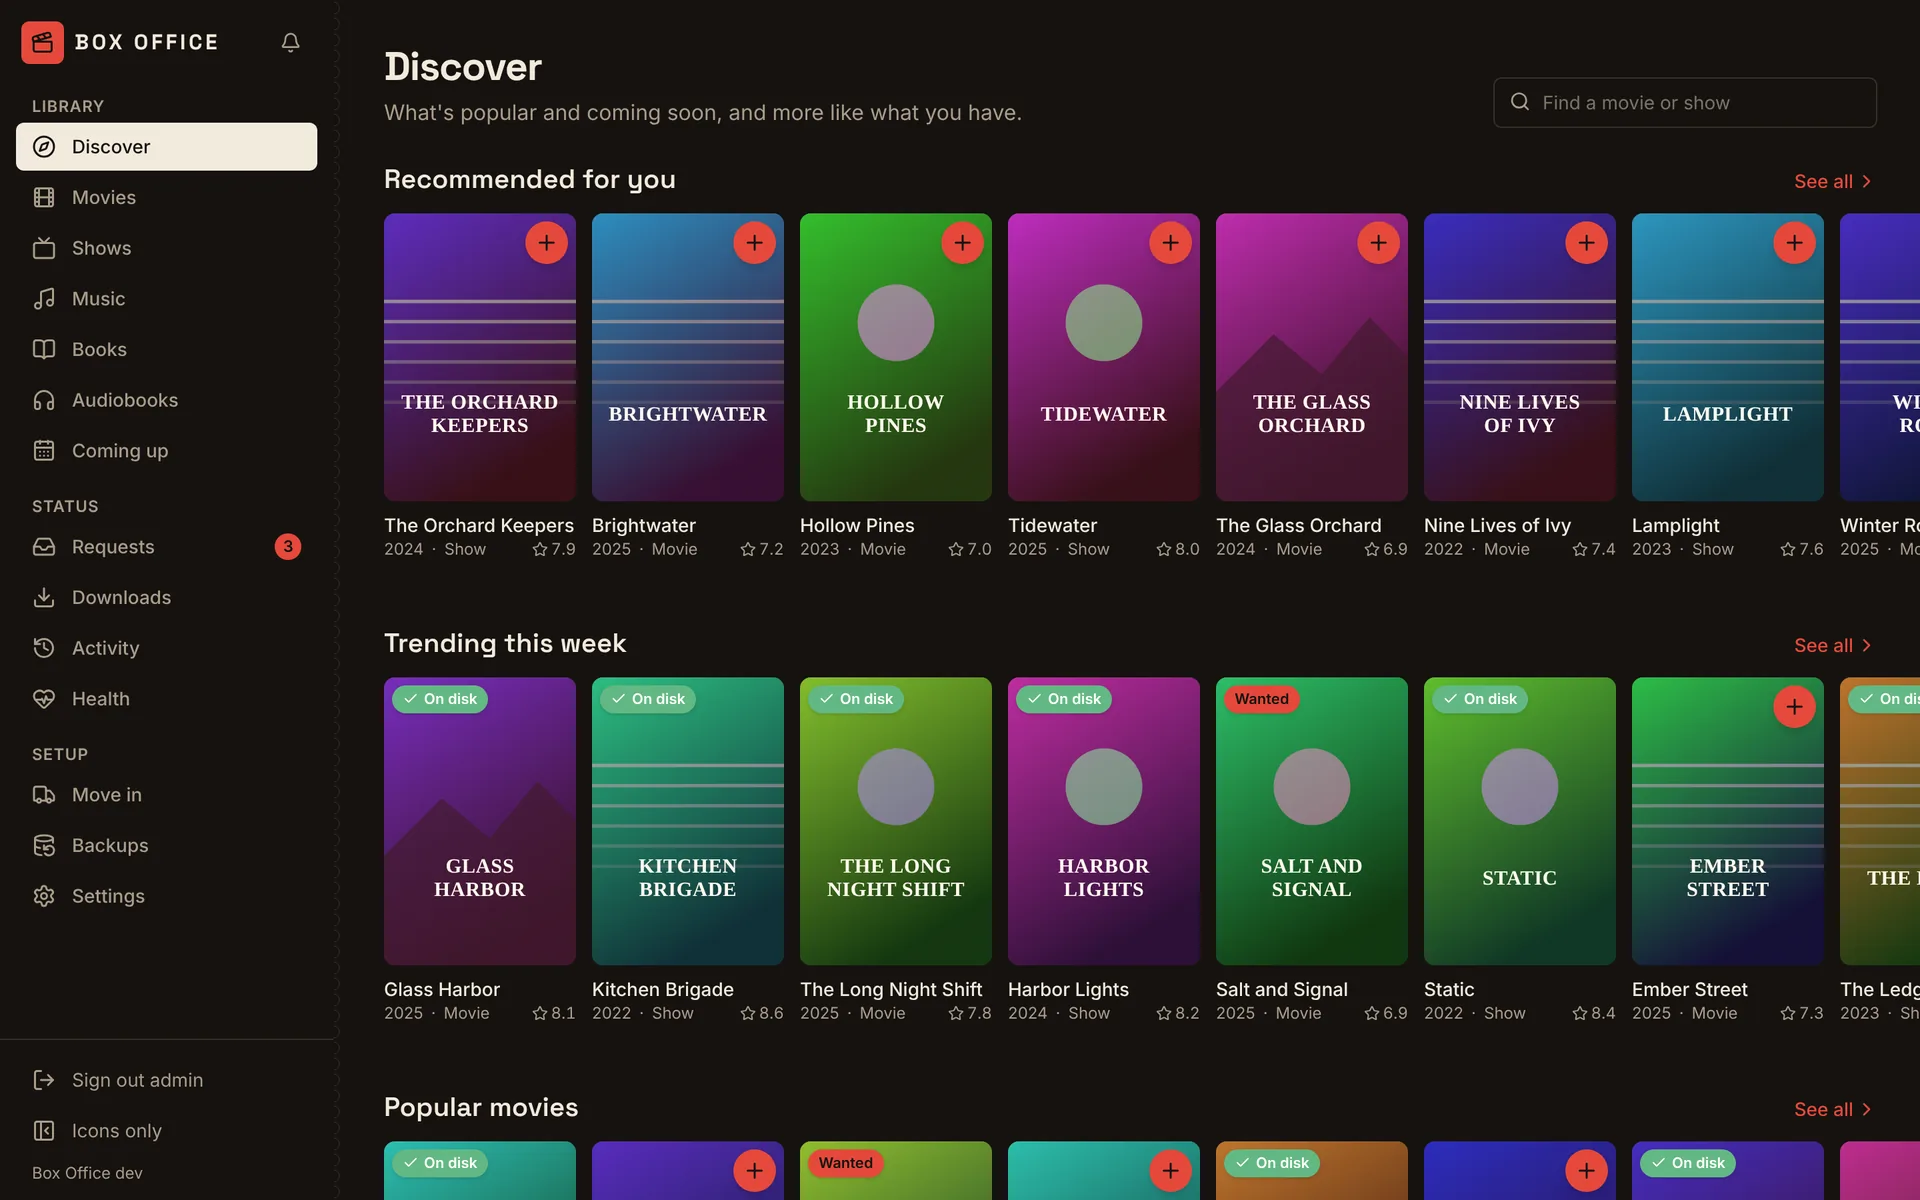
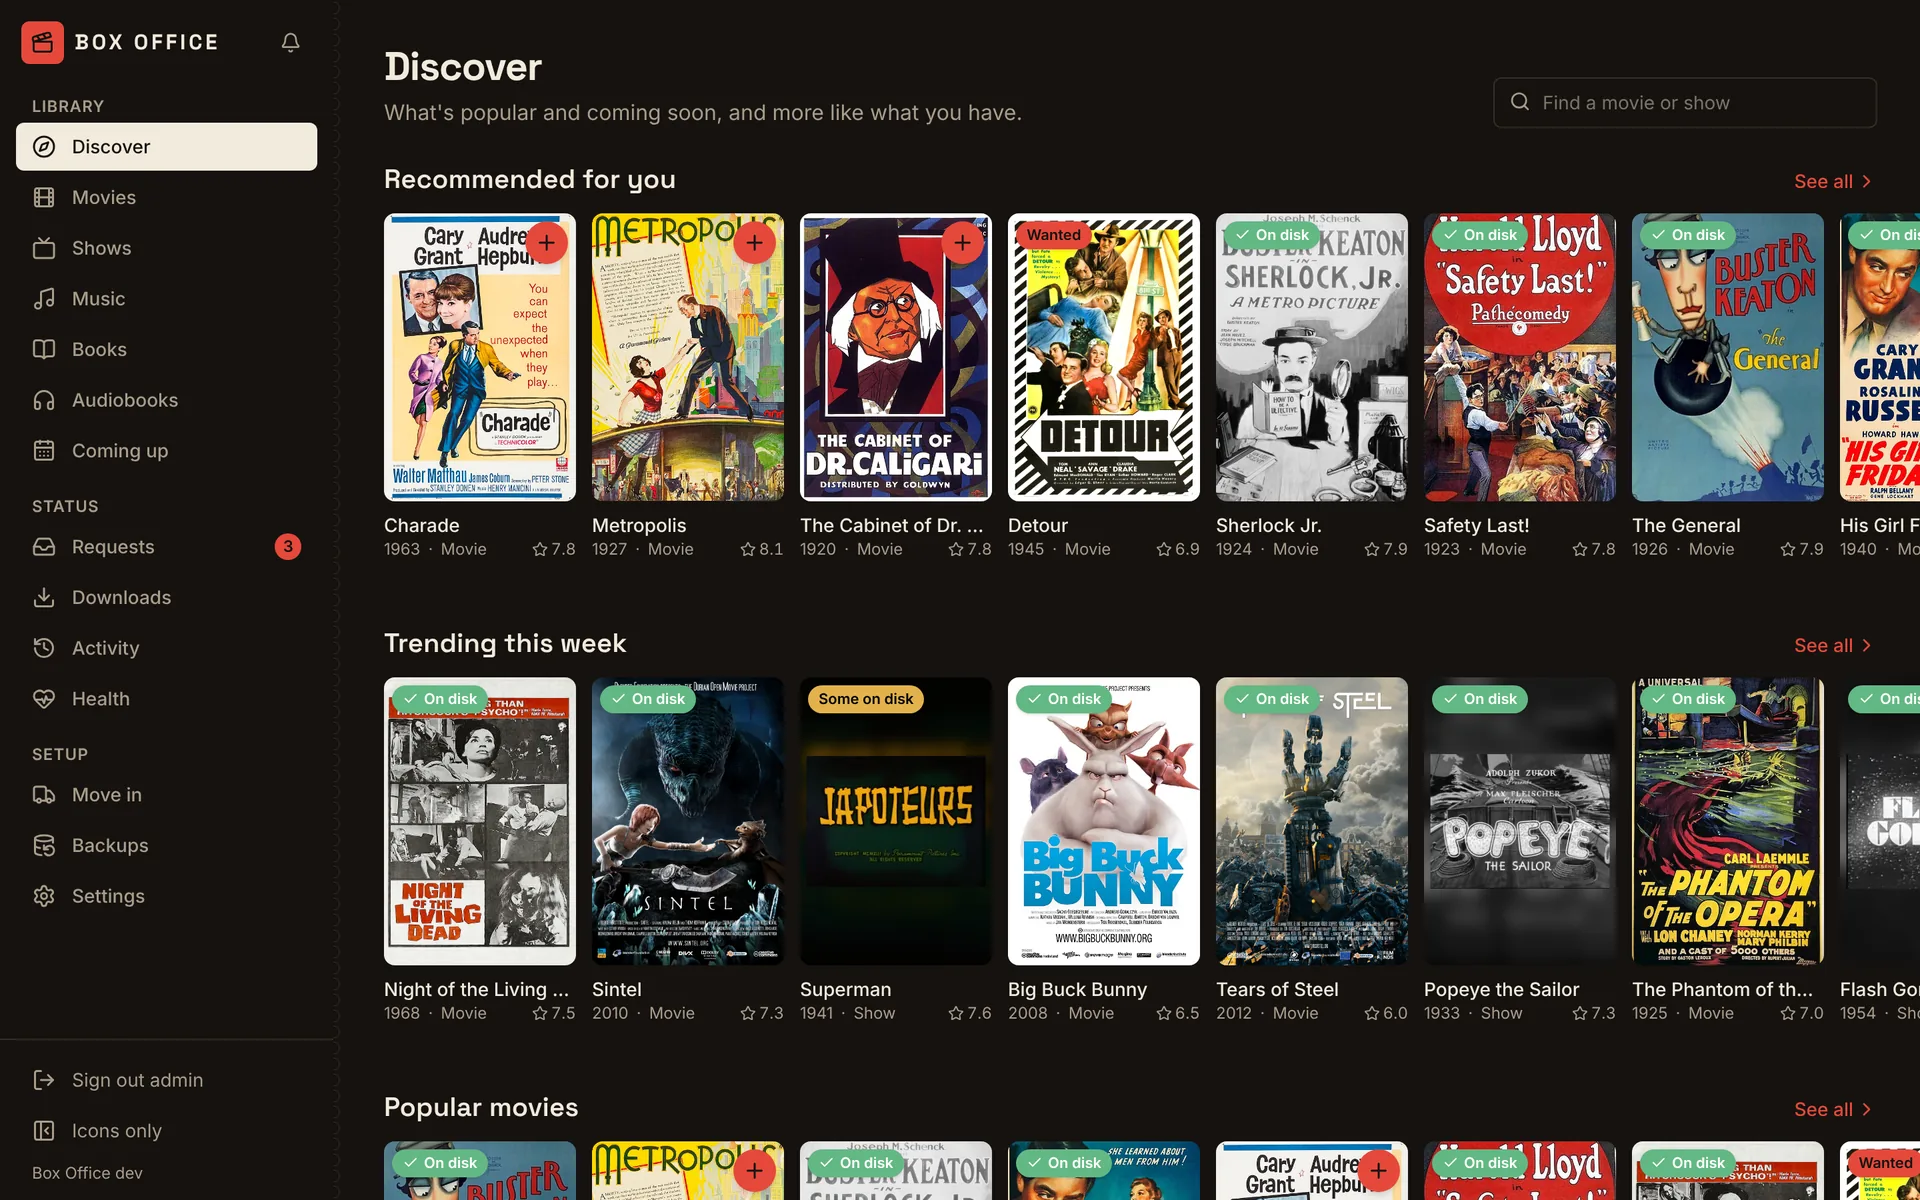
Show public-domain and Creative Commons titles in the README screenshots
Retake the screenshots with Blender's open movies, silent-era and other
public-domain films, the 1940s Superman cartoons, Scott Joplin's sheet music
and Sherlock Holmes first editions, with artwork from Wikimedia Commons
credited in docs/images/CREDITS.md.

Claude-Session: https://claude.ai/code/session_018hbbY14bhbvvR6ggz5Cdkn

diff --git a/docs/images/CREDITS.md b/docs/images/CREDITS.md
@@ -1,0 +1,34 @@
+# Screenshot credits
+
+The screenshots in the README show Box Office with a demo library of public-domain and Creative Commons titles. Everything else in them (people, file sizes, dates added, requests) is made up. The artwork comes from Wikimedia Commons:
+
+| Artwork | Author | License | Source |
+| --- | --- | --- | --- |
+| Big Buck Bunny (2008) poster | © Blender Foundation, www.bigbuckbunny.org | [CC BY 3.0](https://creativecommons.org/licenses/by/3.0/) | [Big buck bunny poster big.jpg](https://commons.wikimedia.org/wiki/File:Big_buck_bunny_poster_big.jpg) |
+| Sintel (2010) poster | © Blender Foundation, www.sintel.org | [CC BY 3.0](https://creativecommons.org/licenses/by/3.0/) | [Sintel poster.jpg](https://commons.wikimedia.org/wiki/File:Sintel_poster.jpg) |
+| Tears of Steel (2012) poster | © Blender Foundation, mango.blender.org | [CC BY 3.0](https://creativecommons.org/licenses/by/3.0/) | [Tos-poster.png](https://commons.wikimedia.org/wiki/File:Tos-poster.png) |
+| Night of the Living Dead (1968) poster | | Public domain | [Night Of The Living Dead (1968) - Poster.jpg](https://commons.wikimedia.org/wiki/File:Night_Of_The_Living_Dead_%281968%29_-_Poster.jpg) |
+| His Girl Friday (1940) poster | | Public domain | [His Girl Friday (1940 poster) crop.jpg](https://commons.wikimedia.org/wiki/File:His_Girl_Friday_%281940_poster%29_crop.jpg) |
+| Charade (1963) poster | | Public domain | [Charade (1963 poster).jpg](https://commons.wikimedia.org/wiki/File:Charade_%281963_poster%29.jpg) |
+| The General (1926) poster | | Public domain | [The General (1926) - Movie Poster 2.png](https://commons.wikimedia.org/wiki/File:The_General_%281926%29_-_Movie_Poster_2.png) |
+| Safety Last! (1923) poster | | Public domain | [Safety last poster.jpg](https://commons.wikimedia.org/wiki/File:Safety_last_poster.jpg) |
+| The Phantom of the Opera (1925) poster | | Public domain | [The Phantom of the Opera (1925 film).jpg](https://commons.wikimedia.org/wiki/File:The_Phantom_of_the_Opera_%281925_film%29.jpg) |
+| Sherlock Jr. (1924) poster | | Public domain | [Sherlock jr poster.jpg](https://commons.wikimedia.org/wiki/File:Sherlock_jr_poster.jpg) |
+| The Cabinet of Dr. Caligari (1920) poster | | Public domain | [The Cabinet of Doctor Caligari Movie poster.jpg](https://commons.wikimedia.org/wiki/File:The_Cabinet_of_Doctor_Caligari_Movie_poster.jpg) |
+| Detour (1945) poster | | Public domain | [Detour (poster).jpg](https://commons.wikimedia.org/wiki/File:Detour_%28poster%29.jpg) |
+| Metropolis (1927) US ad sheet | | Public domain | [Metropolis (1926 US ad sheet - Paramount).jpg](https://commons.wikimedia.org/wiki/File:Metropolis_%281926_US_ad_sheet_-_Paramount%29.jpg) |
+| Flash Gordon (1954) title card | | Public domain | [Fg1954tc.jpg](https://commons.wikimedia.org/wiki/File:Fg1954tc.jpg) |
+| Felix in the Swim (1922) title card | | Public domain | [Felix in the Swim Title Card.png](https://commons.wikimedia.org/wiki/File:Felix_in_the_Swim_Title_Card.png) |
+| Popeye the Sailor title card | | Public domain | [Popeye title card.png](https://commons.wikimedia.org/wiki/File:Popeye_title_card.png) |
+| Superman: Japoteurs (1942) title card | | Public domain | [Japoteurs1.JPG](https://commons.wikimedia.org/wiki/File:Japoteurs1.JPG) |
+| Maple Leaf Rag (1899) sheet music cover | | Public domain | [Maple Leaf Rag 1st ed.jpg](https://commons.wikimedia.org/wiki/File:Maple_Leaf_Rag_1st_ed.jpg) |
+| The Entertainer (1902) sheet music cover | | Public domain | [Entertainer 1.jpg](https://commons.wikimedia.org/wiki/File:Entertainer_1.jpg) |
+| Elite Syncopations (1902) sheet music cover | | Public domain | [Elite Syncopations 1.jpg](https://commons.wikimedia.org/wiki/File:Elite_Syncopations_1.jpg) |
+| Treemonisha (1911) score cover | | Public domain | [Treemonisha cover.jpg](https://commons.wikimedia.org/wiki/File:Treemonisha_cover.jpg) |
+| Pine Apple Rag (1908) sheet music cover | | Public domain | [PineAppleRagCover08.jpg](https://commons.wikimedia.org/wiki/File:PineAppleRagCover08.jpg) |
+| A Study in Scarlet in Beeton's Christmas Annual (1887) | | Public domain | ["A Study in Scarlet" in Beeton’s Christmas Annual (1887).jpg](https://commons.wikimedia.org/wiki/File:%22A_Study_in_Scarlet%22_in_Beeton%E2%80%99s_Christmas_Annual_%281887%29.jpg) |
+| The Sign of the Four (1892 edition) cover | | Public domain | [Arthur Conan Doyle - The Sign of Four, cover 1892.jpg](https://commons.wikimedia.org/wiki/File:Arthur_Conan_Doyle_-_The_Sign_of_Four%2C_cover_1892.jpg) |
+| The Adventures of Sherlock Holmes cover | | Public domain | [Adventures of sherlock holmes.jpg](https://commons.wikimedia.org/wiki/File:Adventures_of_sherlock_holmes.jpg) |
+| The Hound of the Baskervilles (1902) cover | | Public domain | [Cover (Hound of Baskervilles, 1902).jpg](https://commons.wikimedia.org/wiki/File:Cover_%28Hound_of_Baskervilles%2C_1902%29.jpg) |
+
+Public-domain status is as recorded on each file's Commons page, for the United States. Character names such as Superman, Popeye, Felix the Cat and Flash Gordon may still be trademarks of their owners; the cartoons and episodes shown are in the public domain.

diff --git a/CHANGELOG.md b/CHANGELOG.md
@@ -16,9 +16,8 @@ What changed in Box Office, newest first. The format follows [Keep a Changelog](
 ### Changed
 
 - **Settings is split into sections and can be searched.** The page now has five tabs, **General** (language, TMDB, password), **Library** (media types, root folders, new shows, problem files, recycle folders), **Downloads** (the downloader, news servers, download clients), **Searching** (indexers, quality profiles, automatic searches, data cap) and **Apps and devices** (Matinee, e-readers, Move in); on a phone they wrap as buttons so none hide. **Search settings** (or press `/`) shows every card with a match across all tabs, marks the words found, and names fields that only appear in a card's form, such as a news server's Port. It matches the page's language without minding case or accents, and English too, and also points to Alerts on Health and to Backups. Links to a setting, such as `/settings#news-servers` from Health, open the right tab and bring the card into view; Health's TMDB and root folder fixes now link straight to theirs. E-readers shows a **Turn on Ebooks** button while ebooks are off instead of being missing.
-
 - **The image is now Debian slim with FFmpeg,** in place of distroless, for Problem files' remuxing. It runs as the same user (65532), so volumes and the Helm chart's security settings stay as they are.
-- **New README screenshots.** They show the sidebar, Discover, Music, Books, the Requests page and the phone menu, with made-up titles and artwork.
+- **The README screenshots show real public-domain and Creative Commons titles,** such as Blender's open movies, silent-era classics, the 1940s Superman cartoons, Scott Joplin and Sherlock Holmes, with their artwork credited in [docs/images/CREDITS.md](docs/images/CREDITS.md).
 
 ### Fixed
 

diff --git a/README.md b/README.md
@@ -23,7 +23,7 @@ Already running Radarr, Sonarr, Lidarr, Readarr or NZBGet? **Move in** brings ev
 
 <p>
   <img src="docs/images/show.webp" width="49%" alt="A show with its seasons, episodes and the quality of each file">
-  <img src="docs/images/movies.webp" width="49%" alt="The movies list">
+  <img src="docs/images/movies.webp" width="49%" alt="The movies list: Big Buck Bunny, Detour, The General, His Girl Friday and more">
 </p>
 
 <p>
@@ -42,7 +42,7 @@ Already running Radarr, Sonarr, Lidarr, Readarr or NZBGet? **Move in** brings ev
   <img src="docs/images/phone-menu.webp" width="30%" alt="The menu on a phone, grouped into Library, Status and Setup">
 </p>
 
-<sub>Screenshots use made-up titles and artwork.</sub>
+<sub>The screenshots use public-domain and Creative Commons films, cartoons, sheet music and books. Artwork from Wikimedia Commons; see [the credits](docs/images/CREDITS.md).</sub>
 
 **Status:** early, and moving fast. Movies, TV, the built-in Usenet downloader and moving in from Radarr, Sonarr and NZBGet work end to end. There are no tagged releases yet: the `main` image is built from every change that passes CI. See the [roadmap](ROADMAP.md) for what's next.
 
